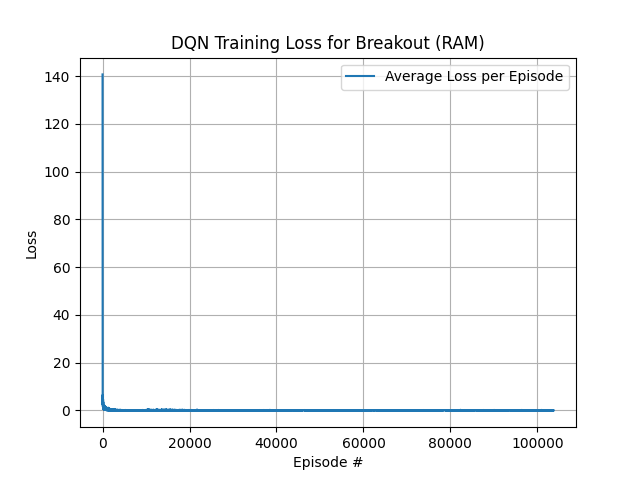
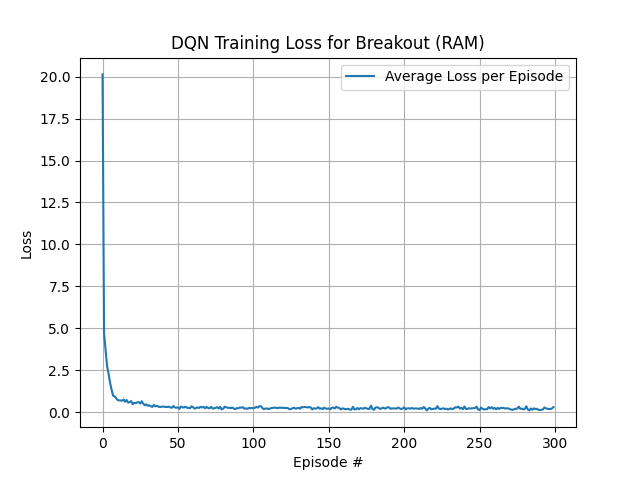
Fixed target update frequency

diff --git a/ram_state_representation/train.py b/ram_state_representation/train.py
@@ -13,8 +13,8 @@ EPS_START = 1.0
 EPS_END = 0.01
 EPS_DECAY = 0.999
 SCORE_SOLVED = 100.0
-PRINT_EVERY = 100
-SAVE_EVERY = 500
+PRINT_EVERY = 250
+SAVE_EVERY = 1000
 
 env = gym.make('ALE/Breakout-ram-v5', render_mode=None)
 state_size = env.observation_space.shape[0]
@@ -24,7 +24,7 @@ print(f'State size: {state_size}, Action size: {action_size}')
 agent = DQNAgent(state_size=state_size, action_size=action_size, seed=0)
 scores = []
 scores_window = deque(maxlen=100)
-episode_losses = []  # to store the average loss per episode
+episode_losses = []
 eps = EPS_START
 
 print("\nStarting Training...")
@@ -34,7 +34,7 @@ for i_episode in tqdm(range(1, N_EPISODES + 1), desc="Training Progress"):
     terminated = False
     truncated = False
     timestep = 0
-    losses_episode = []  # losses for this episode
+    losses_episode = []
 
     while not terminated and not truncated and timestep < MAX_T:
         action = agent.act(state, eps)
@@ -50,7 +50,6 @@ for i_episode in tqdm(range(1, N_EPISODES + 1), desc="Training Progress"):
 
     scores_window.append(score)
     scores.append(score)
-    # Record the average loss for the episode (or NaN if no loss was recorded)
     avg_loss = np.mean(losses_episode) if len(losses_episode) > 0 else np.nan
     episode_losses.append(avg_loss)
     eps = max(EPS_END, EPS_DECAY * eps)
@@ -68,19 +67,19 @@ for i_episode in tqdm(range(1, N_EPISODES + 1), desc="Training Progress"):
         break
 
     # Plot scores and loss every 100 episodes for monitoring
-    if i_episode % 100 == 0:
+    if i_episode % PRINT_EVERY == 0:
         # Plot loss
-        fig_loss = plt.figure()
-        ax_loss = fig_loss.add_subplot(111)
-        # Note: some episodes might not have a training loss, so they appear as NaN.
-        plt.plot(np.arange(len(episode_losses)), episode_losses, label='Average Loss per Episode')
-        plt.ylabel('Loss')
-        plt.xlabel('Episode #')
-        plt.title('DQN Training Loss for Breakout (RAM)')
-        plt.legend()
-        plt.grid(True)
-        plt.savefig('training_loss_breakout_ram.png')
-        plt.show()
+        # fig_loss = plt.figure()
+        # ax_loss = fig_loss.add_subplot(111)
+        # plt.plot(np.arange(len(episode_losses)), episode_losses, label='Average Loss per Episode')
+        # plt.ylabel('Loss')
+        # plt.xlabel('Episode #')
+        # plt.title('DQN Training Loss for Breakout (RAM)')
+        # plt.legend()
+        # plt.grid(True)
+        # plt.savefig('training_loss_breakout_ram.png')
+        # plt.show()
+
         # Plot scores
         fig = plt.figure()
         ax = fig.add_subplot(111)

diff --git a/ram_state_representation/dqn_agent.py b/ram_state_representation/dqn_agent.py
@@ -7,11 +7,11 @@ import random
 from dqn_model import QNetwork
 from replay_buffer import ReplayBuffer
 
-BUFFER_SIZE = int(1e5)
+BUFFER_SIZE = 50_000
 BATCH_SIZE = 32
 GAMMA = 0.99
 LR = 1e-4
-TARGET_UPDATE_EVERY = 100
+TARGET_UPDATE_EVERY = 4
 
 class DQNAgent():
     def __init__(self, state_size, action_size, seed=0):

diff --git a/README.md b/README.md
@@ -1,1 +1,6 @@
 # ai-breakout
+
+## References
+https://arxiv.org/pdf/1509.02971
+https://www.cs.toronto.edu/~vmnih/docs/dqn.pdf
+https://ale.farama.org/environments/breakout/
